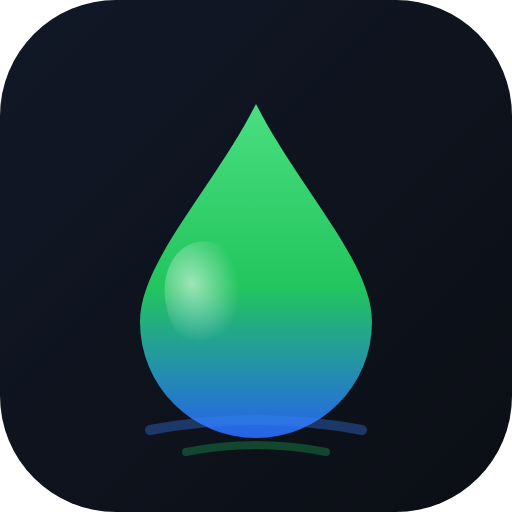
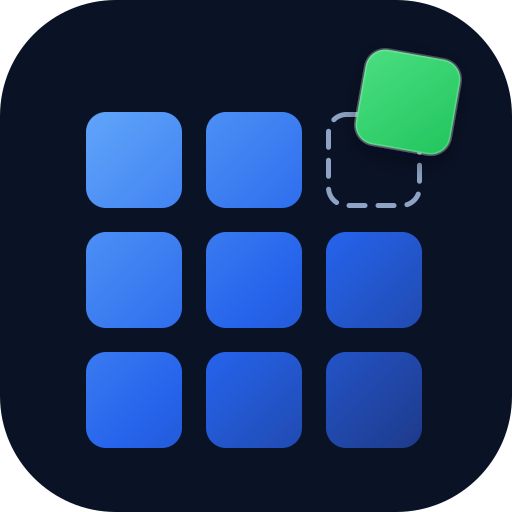
New brand mark, point profile at OSSDrop/OSSDrop, drop Matily footer
- assets/ossdrop-icon.png replaced with the final 'drop' mark (512px);
  transparent SVG master added alongside
- profile README: list links now target the flagship OSSDrop/OSSDrop
  repo, 'Drop your tool' steps updated to the tools.json PR flow
- footer trimmed to values only, no Matily attribution

diff --git a/profile/README.md b/profile/README.md
@@ -9,7 +9,7 @@
 A community-curated home for open-source tools — by the people who build them.
 Discover great projects, share your own, no gatekeeping.
 
-[![The List](https://img.shields.io/badge/The%20List-181717?style=for-the-badge&logo=github&logoColor=white)](https://github.com/OSSDrop/list)
+[![The List](https://img.shields.io/badge/The%20List-181717?style=for-the-badge&logo=github&logoColor=white)](https://github.com/OSSDrop/OSSDrop)
 &nbsp;
 [![r/OSSDrop](https://img.shields.io/badge/r%2FOSSDrop-FF4500?style=for-the-badge&logo=reddit&logoColor=white)](https://www.reddit.com/r/OSSDrop/)
 &nbsp;
@@ -23,18 +23,19 @@ Discover great projects, share your own, no gatekeeping.
 
 A curated, honest home for open-source tools — and the community around them.
 
-- **[OSSDrop/list](https://github.com/OSSDrop/list)** — a curated list of open-source tools. Built something? Open a PR and drop it in.
+- **[OSSDrop/OSSDrop](https://github.com/OSSDrop/OSSDrop)** — the curated list: live stars, trending drops, fourteen categories. Built something? Drop it in.
 - **[r/OSSDrop](https://www.reddit.com/r/OSSDrop/)** — post, discuss, and discover. A neutral space no competitor can moderate you out of.
 - **[ossdrop.com](https://ossdrop.com)** — coming soon.
 
 ### Drop your tool
 
-1. Fork **[OSSDrop/list](https://github.com/OSSDrop/list)**
-2. Add your tool to the right category (one line, honest description)
-3. Open a PR — that's it.
+1. Fork **[OSSDrop/OSSDrop](https://github.com/OSSDrop/OSSDrop)**
+2. Add one JSON entry to `data/tools.json` (honest one-line description)
+3. Open a PR — stars, icon, and trending are computed automatically.
 
-Open source only. No hype, no dead links, no pay-to-play. See the contributing guide in the list repo.
+Open source only. No hype, no dead links, no pay-to-play. See the
+[contributing guide](https://github.com/OSSDrop/OSSDrop/blob/main/CONTRIBUTING.md).
 
 ---
 
-<div align="center"><sub>Built in the open by <a href="https://matily.org">Matily</a> · no trackers, no lock-in, no cost</sub></div>
+<div align="center"><sub>Built in the open · no trackers, no lock-in, no cost</sub></div>